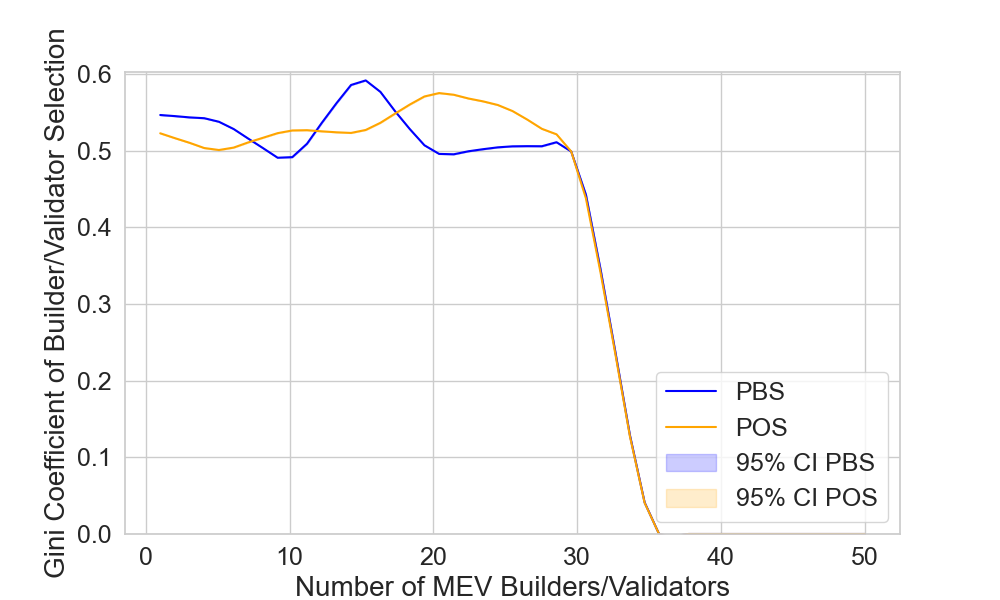
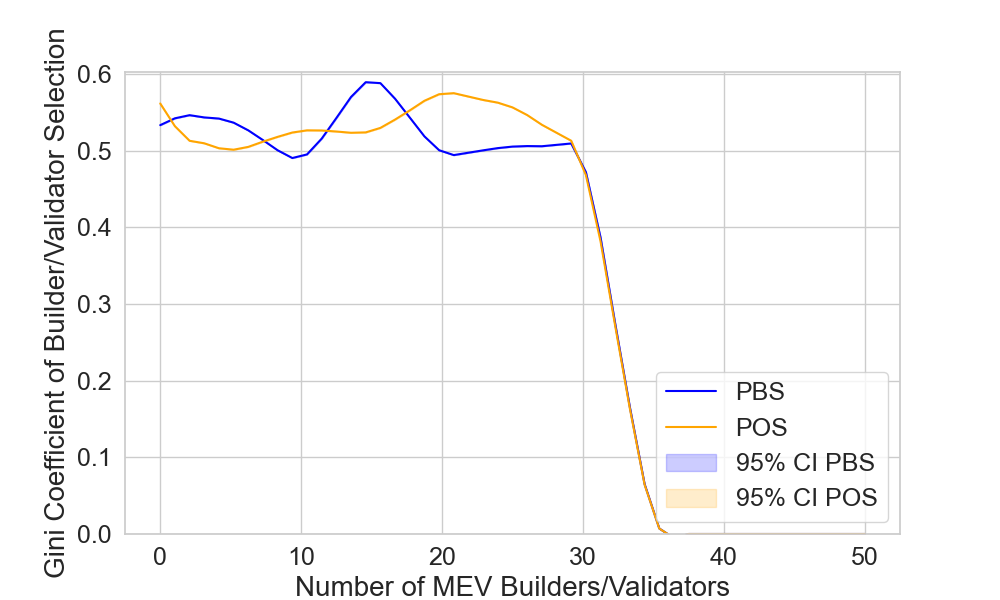
with 0

diff --git a/plots/new/vary_user_content_gini.py b/plots/new/vary_user_content_gini.py
@@ -142,7 +142,7 @@ def plot_gini_selection_with_confidence(data_dir, mev_counts, output_file, ylim=
     plt.close()
 
 if __name__ == "__main__":
-    mev_counts = list(range(1, 51))
+    mev_counts = list(range(0, 51))
     data_dir_default = 'data/100_runs'
     data_dir_attackall = 'data/100run_attackall'
     data_dir_attacknon = 'data/100run_attacknon'
